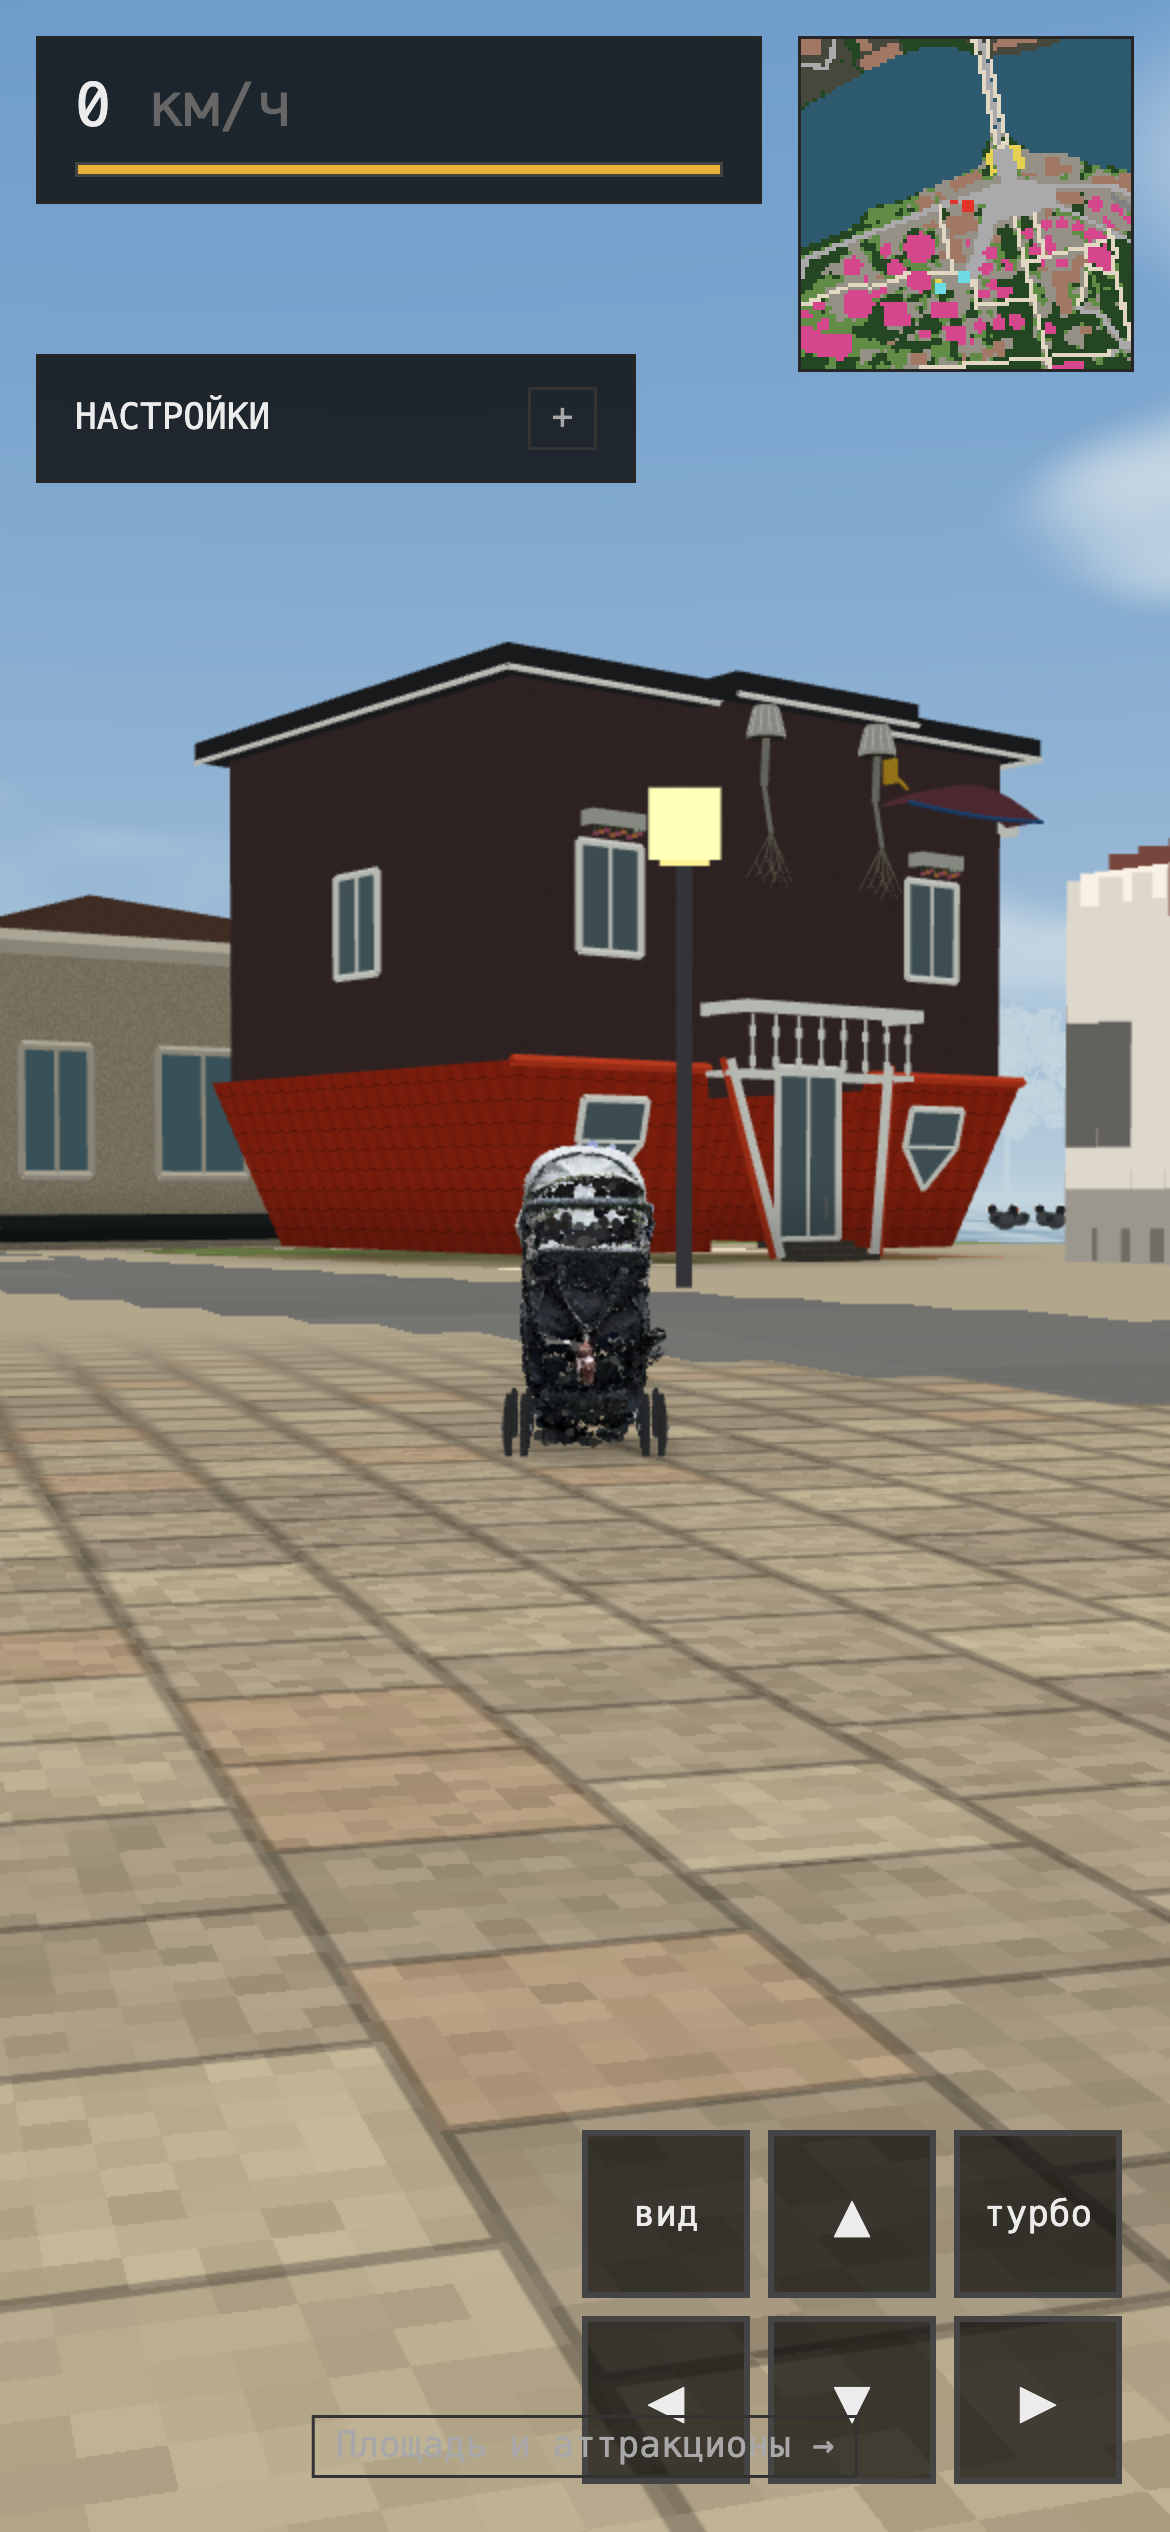
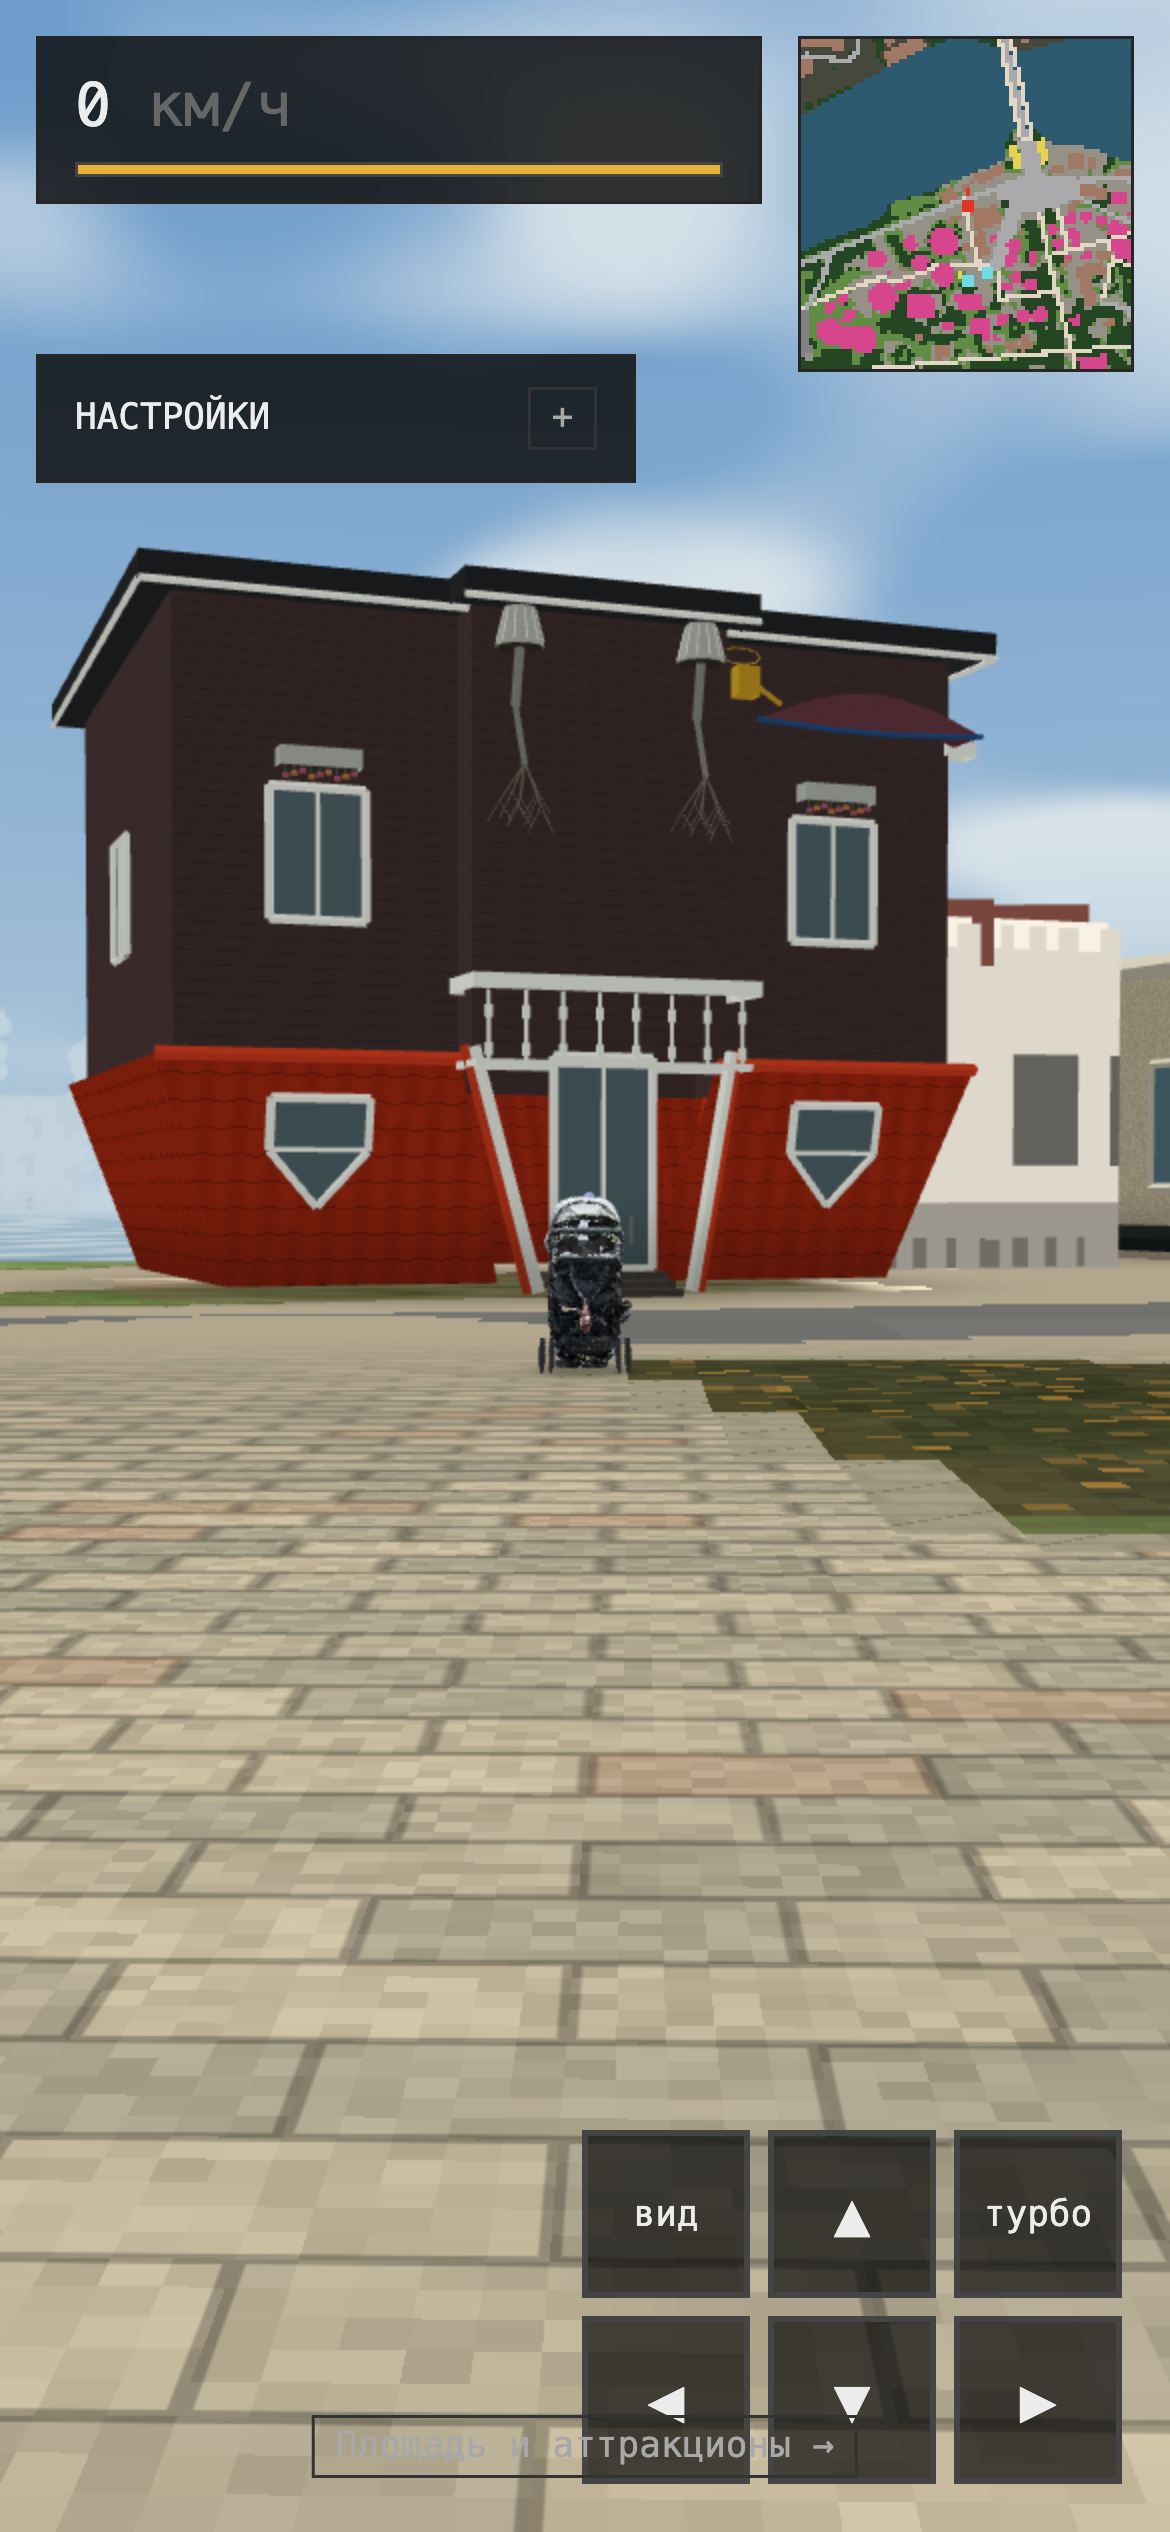
Rotate upside-down house entrance along the path

diff --git a/park-upside-down-house.js b/park-upside-down-house.js
@@ -3,8 +3,37 @@
 'use strict';
 const C={wood:[.31,.23,.23],roof:[.76,.18,.075],edge:[.88,.25,.12],white:[.91,.92,.89],
  glass:[.20,.27,.28],dark:[.16,.17,.18],soil:[.17,.15,.12],pot:[.67,.69,.65],gold:[.85,.66,.14]};
+function footprint(e){
+ // Clockwise quarter-turn about the mapped centre, facing the adjacent path.
+ return e.pts.map(([x,z])=>[e.cx-(z-e.cz),e.cz+(x-e.cx)]);
+}
+function inside(p,x,z){
+ let hit=false;
+ for(let i=0,j=p.length-1;i<p.length;j=i++)if((p[i][1]>z)!==(p[j][1]>z)&&x<(p[j][0]-p[i][0])*(z-p[i][1])/(p[j][1]-p[i][1])+p[i][0])hit=!hit;
+ return hit;
+}
+function nearBoundary(p,x,z,pad){
+ return p.some((a,i)=>{
+  const b=p[(i+1)%p.length],dx=b[0]-a[0],dz=b[1]-a[1];
+  const t=Math.max(0,Math.min(1,((x-a[0])*dx+(z-a[1])*dz)/(dx*dx+dz*dz)));
+  return Math.hypot(x-a[0]-t*dx,z-a[1]-t*dz)<=pad;
+ });
+}
+function applyGround(cats,park,e){
+ const rotated=footprint(e),both=e.pts.concat(rotated),pad=park.mpp*Math.SQRT2;
+ const xs=both.map(p=>p[0]),zs=both.map(p=>p[1]);
+ const x0=Math.max(0,Math.floor((Math.min(...xs)-pad-park.x0)/park.mpp));
+ const x1=Math.min(park.w-1,Math.ceil((Math.max(...xs)+pad-park.x0)/park.mpp));
+ const z0=Math.max(0,Math.floor((Math.min(...zs)-pad-park.z0)/park.mpp));
+ const z1=Math.min(park.h-1,Math.ceil((Math.max(...zs)+pad-park.z0)/park.mpp));
+ for(let iz=z0;iz<=z1;iz++)for(let ix=x0;ix<=x1;ix++){
+  const x=park.x0+(ix+.5)*park.mpp,z=park.z0+(iz+.5)*park.mpp,index=iz*park.w+ix;
+  if((cats[index]&31)===5&&(inside(e.pts,x,z)||nearBoundary(e.pts,x,z,pad)))cats[index]=(cats[index]&64)|11;
+  if(inside(rotated,x,z))cats[index]=(cats[index]&64)|5;
+ }
+}
 function frame(e){
- const [backRight,backLeft,left,right]=e.pts;
+ const [backRight,backLeft,left,right]=footprint(e);
  const width=Math.hypot(right[0]-left[0],right[1]-left[1]);
  const mid=[(left[0]+right[0])/2,(left[1]+right[1])/2];
  const depth=Math.hypot((backLeft[0]+backRight[0])/2-mid[0],(backLeft[1]+backRight[1])/2-mid[1]);
@@ -31,7 +60,7 @@ function build(g,e){
   for(const u of [-w/2,0,w/2])beam(p(u,y,.025),p(u,y+h,.025),u===0?.023:.045,C.white);
   for(const v of [y,y+h])beam(p(-w/2,v,.025),p(w/2,v,.025),.045,C.white);
  }
- // The original footprint carries the upper walls; the roof is below them.
+ // The rotated footprint carries the upper walls; the roof is below them.
  box(0,2.28,-D/2,W*2,4.27,D,C.wood,12);
  box(0,2.35,.20,2.65,4.20,.62,C.wood,12);
  const roofD=y=>.22-(2.30-y)*.25;
@@ -120,6 +149,6 @@ function build(g,e){
  // A short upside-down stair flight is visible at the upper right corner.
  for(let i=0;i<6;i++)box(W+.13,5.58+i*.15,-.08-i*.27,.36,.15,.28,C.white);
 }
-const api={frame,build};
+const api={frame,build,footprint,applyGround};
 if(typeof module!=='undefined'&&module.exports)module.exports=api;else root.ParkUpsideDownHouse=api;
 })(typeof window!=='undefined'?window:globalThis);

diff --git a/park.js b/park.js
@@ -2346,14 +2346,14 @@
       loadImage('park/ground.png?v=20261020-approach2'),
       loadImage('park/albedo.jpg'),
       fetch('park/scans.json').then(function (r) { if (!r.ok) throw new Error('scans.json ' + r.status); return r.json(); }),
-      fetch('park/stream-manifest.json?v=20261022-upside1').then(function(r) {if(!r.ok) throw new Error('stream manifest '+r.status);return r.json();}),
+      fetch('park/stream-manifest.json?v=20261022-upside2').then(function(r) {if(!r.ok) throw new Error('stream manifest '+r.status);return r.json();}),
     ]);
     park = res[0];
     var meshEntries=ParkMeshes.entries(park);
     meshContacts=new Float32Array(meshEntries.filter(function(e){
       return ['building','bikeCafe','tutCoffee','ticketOffice','upsideDownHouse','transylvania','bumper','carousel','coaster'].indexOf(e.kind)>=0;
     }).flatMap(function(e){
-      var b=bbox(e.pts);return [e.cx,e.cz,Math.max(1,(b[2]-b[0])/2),Math.max(1,(b[3]-b[1])/2)];
+      var b=bbox(e.kind==='upsideDownHouse'?ParkUpsideDownHouse.footprint(e):e.pts);return [e.cx,e.cz,Math.max(1,(b[2]-b[0])/2),Math.max(1,(b[3]-b[1])/2)];
     }));
     park.scans = res[3].scans;
     // Replace the former guessed fountain and clear generated vegetation at
@@ -2385,6 +2385,7 @@
     var rgba = cx.getImageData(0, 0, park.w, park.h).data;
     cats = new Uint8Array(park.w * park.h);
     for (var i = 0; i < cats.length; i++) cats[i] = rgba[i * 4];
+    ParkUpsideDownHouse.applyGround(cats,park,upsideDownEntry);
     for(var z=-440;z<=-400;z+=park.mpp)for(var x=-22;x<=43;x+=park.mpp){
       var zone=ParkMeshes.landingZone(x,z);
       if(!zone)continue;
@@ -2538,8 +2539,8 @@
     if(new URLSearchParams(location.search).get('tour')==='details') visitDetails();
     var preview=new URLSearchParams(location.search).get('preview');
     if(preview==='upside-down-house'){
-      startGame('free');car.x=-25;car.z=-381;car.heading=-1.28;car.v=0;
-      cam.yaw=car.heading;cam.orbit=0;cam.pitch=.03;cam.dist=canvas.width<canvas.height?8:6;cam.top=false;
+      startGame('free');car.x=-47;car.z=-375;car.heading=-.02;car.v=0;
+      cam.yaw=car.heading;cam.orbit=0;cam.pitch=.03;cam.dist=canvas.width<canvas.height?14:6;cam.top=false;
     }else if(preview==='transylvania'){
       startGame('free');car.x=-19.5;car.z=-315.0;car.heading=.94;car.v=0;
       cam.yaw=car.heading;cam.orbit=0;cam.pitch=.03;cam.dist=canvas.width<canvas.height?11:6;cam.top=false;

diff --git a/tests/upside-down-house.test.js b/tests/upside-down-house.test.js
@@ -10,10 +10,29 @@ test('upside-down house uses the mapped 2B footprint between the entrance pavili
  const west=all.find(e=>e.id==='b5'),east=all.find(e=>e.id==='b6');
  assert(west.cx<e.cx&&e.cx<east.cx);
  assert.equal(west.kind,'building');assert.equal(east.kind,'building');
- assert(f.front[0]>.9&&f.front[1]<0,'the long facade faces the open entrance street');
- for(const [x,d,index] of [[-f.width/2,0,2],[f.width/2,0,3],[-f.width/2,-f.depth,1],[f.width/2,-f.depth,0]]){
-  const p=f.at(x,0,d);assert(Math.hypot(p[0]-e.pts[index][0],p[2]-e.pts[index][1])<1e-8);
+ assert(f.front[0]>.39&&f.front[1]>.91,'the entrance faces southeast across the adjacent path');
+ const rotated=House.footprint(e);
+ for(let i=0;i<4;i++){
+  const a=e.pts[i].map((v,k)=>v-[e.cx,e.cz][k]),b=rotated[i].map((v,k)=>v-[e.cx,e.cz][k]);
+  assert(Math.abs(a[0]*b[0]+a[1]*b[1])<1e-8,'the house turns exactly 90 degrees about its centre');
+  assert(a[0]*b[1]-a[1]*b[0]>0,'the entrance turns toward the path');
+  assert(Math.abs(Math.hypot(...a)-Math.hypot(...b))<1e-8,'rotation keeps the original dimensions');
  }
+ for(const [x,d,index] of [[-f.width/2,0,2],[f.width/2,0,3],[-f.width/2,-f.depth,1],[f.width/2,-f.depth,0]]){
+  const p=f.at(x,0,d);assert(Math.hypot(p[0]-rotated[index][0],p[2]-rotated[index][1])<1e-8);
+ }
+});
+
+test('collision raster follows the rotated house and frees its former corners',()=>{
+ const e=Meshes.entries(park).find(e=>e.kind==='upsideDownHouse');
+ const grid={x0:-56.1,z0:-396.1,w:80,h:80,mpp:.2},cats=new Uint8Array(6400).fill(75);
+ const index=(x,z)=>Math.round((z+396)/.2)*grid.w+Math.round((x+56)/.2);
+ const oldCorner=index(-52.8,-390.6),newCorner=index(-50.4,-384),neighbour=index(-44.4,-392.4);
+ cats[oldCorner]=101;cats[neighbour]=69;
+ House.applyGround(cats,grid,e);
+ assert.equal(cats[oldCorner],75,'old solid/unreachable cell becomes a walkable forecourt');
+ assert.equal(cats[newCorner],69,'newly covered corner blocks the stroller');
+ assert.equal(cats[neighbour],69,'a nearby unrelated building is preserved');
 });
 
 test('red pitched surfaces stay below the wood walls and foundation cap',()=>{

diff --git a/park.html b/park.html
@@ -153,13 +153,13 @@
 <script src="dogs.js?v=20261019-small-dogs"></script>
 <script src="park-ticket-office.js?v=20261022-ticket1"></script>
 <script src="park-transylvania.js?v=20261022-transylvania1"></script>
-<script src="park-upside-down-house.js?v=20261022-upside1"></script>
+<script src="park-upside-down-house.js?v=20261022-upside2"></script>
 <script src="park-meshes.js?v=20261022-upside1"></script>
 <script src="park-atmosphere.js?v=20261022-natural1"></script>
 <script src="park-performance.js"></script>
 <script src="park-streaming.js"></script>
 <script src="small-wildlife.js?v=20261021-small-animals"></script>
 <script src="jay-voice.js?v=20261021-sonogram"></script>
-<script src="park.js?v=20261022-upside1"></script>
+<script src="park.js?v=20261022-upside2"></script>
 </body>
 </html>

diff --git a/tests/upside_down_house_browser.py b/tests/upside_down_house_browser.py
@@ -13,8 +13,8 @@ base=os.environ.get('PARK_URL','http://127.0.0.1:8791')
 out=Path(os.environ.get('PARK_HOUSE_OUT',tempfile.mkdtemp(prefix='park-upside-down-')))
 out.mkdir(parents=True,exist_ok=True)
 report={};errors=[]
-query='calibrate=1&x=-31&z=-388&heading=-1.467&sound=0&grain=0'
-pose='__calibrationCamera={x:-31,z:-388,y:1.7,heading:-1.467,pitch:.12}'
+query='calibrate=1&x=-42&z=-372&heading=-.396&sound=0&grain=0'
+pose='__calibrationCamera={x:-42,z:-372,y:1.7,heading:-.396,pitch:.12}'
 
 def ready(page,url):
     page.goto(base+'/park.html?'+url)
@@ -95,6 +95,14 @@ with sync_playwright() as p:
     assert math.dist(start,end)>.1
     report['preview_moved_metres']=math.dist(start,end)
     check_gl(page)
+
+    report['collision_rotation']={}
+    for name,x,z,heading,blocked in [('freed_corner',-53.2,-390.6,-.95,False),('rotated_corner',-50.4,-384,-.95,True)]:
+        page.evaluate('p=>{__car.x=p.x;__car.z=p.z;__car.heading=p.h;__car.v=0;__car.steer=0;}',{'x':x,'z':z,'h':heading})
+        page.keyboard.down('w');page.wait_for_timeout(700);page.keyboard.up('w')
+        travelled=math.dist([x,z],page.evaluate('[__car.x,__car.z]'))
+        report['collision_rotation'][name]=travelled
+        assert travelled<.01 if blocked else travelled>.1,(name,travelled)
 
     mobile=browser.new_context(viewport={'width':390,'height':844},device_scale_factor=3,is_mobile=True,has_touch=True)
     phone=mobile.new_page();phone.on('pageerror',lambda e:errors.append(str(e)))

diff --git a/docs/references/README.md b/docs/references/README.md
@@ -5,8 +5,11 @@
 Максим прислал общий вид со стороны входной площади (панорама 2026 года),
 два одинаковых фронтальных кадра и боковой вид (панорамы 2021 года), а также
 карту 22.10.2026. Контур сопоставлен с домом 2Б: OSM way `728798962`, индекс
-123 в `park/park.json`, между соседними павильонами №5 и №6. Контур и коллизии
-сохранены; вход обращён к длинной стороне у улицы.
+123 в `park/park.json`, между соседними павильонами №5 и №6. По поправке Максима
+модель повёрнута на 90° по часовой стрелке вокруг её центра: входной фасад
+идёт вдоль дорожки и обращён на юго-восток. Размеры сохранены. Исходный контур
+OSM остаётся в данных; изображение земли, препятствие и контактная тень
+используют повёрнутый контур из `ParkUpsideDownHouse.footprint`.
 
 В `park-upside-down-house.js` воспроизведены тёмный горизонтальный сайдинг,
 плоское основание наверху, нижние красные скаты с окнами остриём вниз,

diff --git a/README.md b/README.md
@@ -154,7 +154,9 @@ TriteHexagon ([источник и сведения о разрешении](ass
 тёмный сайдинг, красная кровля внизу, белые окна остриём вниз, перевёрнутый
 балкон, подвешенные горшки, лодка и лейка у верхнего основания.
 Прямой переход: `park.html?preview=upside-down-house`.
-Контур карты и коллизии прежние; высота и скрытые детали приблизительные,
+По уточнению Максима дом повёрнут на 90° входным фасадом вдоль дорожки;
+центр и размеры прежние, препятствие и тень повёрнуты вместе с моделью.
+Высота и скрытые детали приблизительные,
 интерьер не моделировался. Модуль: `park-upside-down-house.js`; проверки:
 `tests/upside-down-house.test.js` и `python3 tests/upside_down_house_browser.py`.
 Общий бюджет моделей ориентиров увеличен с 5 до 5,5 МиБ для дополнительного
